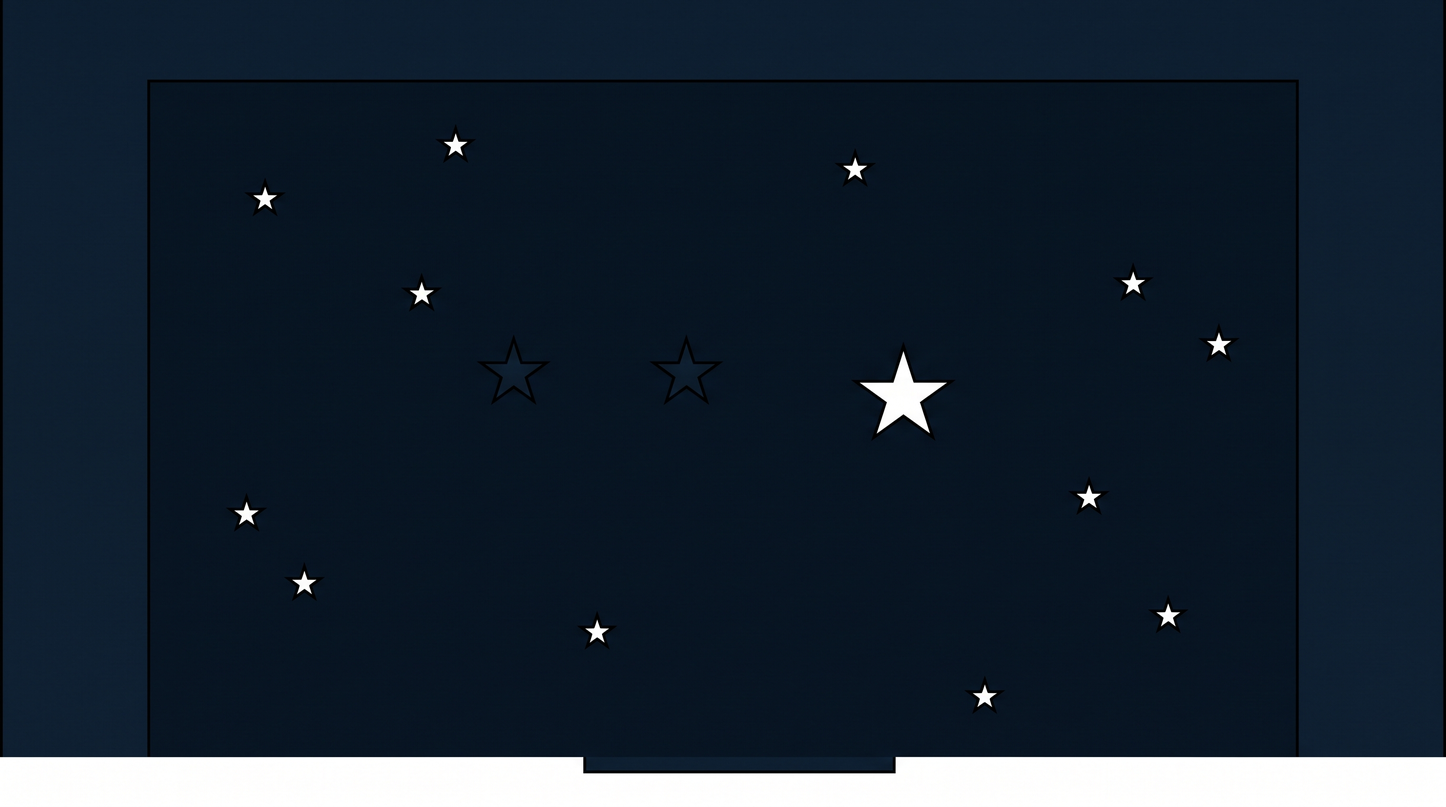
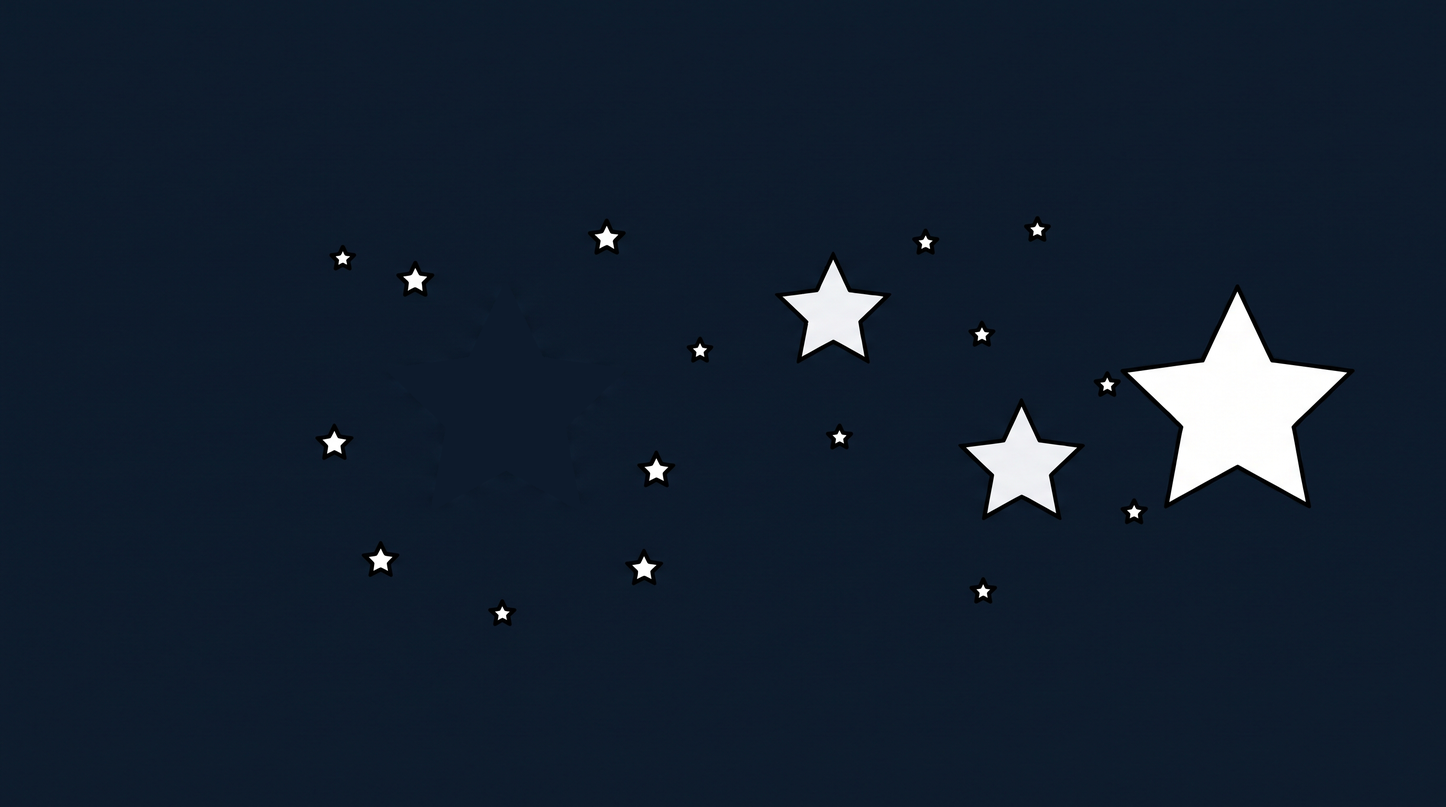
Video 2: alle 66 Motive stehen; Schlussmessung ueber den ganzen Satz
M34 sitzt im Nachlauf: die Schubladenfront ist eine ununterbrochene
Holzplatte mit dem Knopf darauf, kein Innenraum und kein Blatt sichtbar,
die Hand flach darueber. Der geschlossene Zustand als Bauform statt als
Attribut — derselbe Griff wie bei M15.

Die neun abgeleiteten Zustaende liegen jetzt unter ihren kanonischen
Namen; die gescheiterten Textfassungen von M05, M11 und M64 aus Stapel 1
sind damit ersetzt. 66 von 66 Bildern vorhanden.

schlussmessung.py prueft, was config.md angekuendigt hat: die
Serientoene gelten ab ihrer Einfuehrung, und was vorher entstand, wird
am Ende gemessen statt blind neu gemacht. Ergebnis: von 66 Bildern
fallen VIER aus ihrer Gruppe, und alle vier sind vor der Regel
entstanden, die fuer sie gilt — M15 und M22 (Messing, vor MESSINGTON),
M37 und M38 (Dunkelgrund und Sternfarbe, vor DUNKELGRUND und
STERNFELD). Sie laufen nach.

Zwei der fuenf gemeldeten Ausreisser waren Messfehler von mir und sind
in der Messung behoben:
- M41 galt als Dunkelgrund-Ausreisser, weil sein Okular-Steckbrief
  ausdruecklich Neutralgrau ausserhalb des Kreises verlangt und diese
  Flaeche groesser ist als das Nachtblau darin.
- M37 kam auf 81 % Farbanteil, weil "alles Helle" gemessen wurde und ein
  oranges Sonnensegel ueber der blaugruenen Erdkante das halbe Bild
  fuellt. Jetzt werden nur Flecken unter 3000 px gezaehlt — ein Stern
  ist klein, ein Satellit ist es nicht.

Geschlossen sind: Papierton (13 Motive, Spanne 220-250 / 210-250 /
[…]

diff --git a/produktion/video-02/schlussmessung.py b/produktion/video-02/schlussmessung.py
@@ -1,0 +1,155 @@
+#!/usr/bin/env python3
+"""Schlussmessung ueber alle 66 Bilder von Video 2.
+
+In config.md steht: die Serientoene gelten ab ihrer Einfuehrung, und
+bereits erzeugte Bilder werden nicht blind neu gemacht, sondern am Ende
+gemessen. Das ist diese Messung. Sie prueft je Gruppe, ob die Spanne
+geschlossen ist, und nennt die Ausreisser.
+
+Aufruf:  python3 schlussmessung.py
+"""
+from __future__ import annotations
+
+import collections
+import importlib.util
+import pathlib
+
+import numpy as np
+from PIL import Image
+
+HIER = pathlib.Path(__file__).resolve().parent
+BILDER = HIER / "bilder"
+
+
+def _lade(name: str, pfad: pathlib.Path):
+    spec = importlib.util.spec_from_file_location(name, pfad)
+    mod = importlib.util.module_from_spec(spec)
+    spec.loader.exec_module(mod)
+    return mod
+
+
+b = _lade("bildplan2", HIER / "bildplan2.py")
+sp = _lade("szenenplan", HIER / "szenenplan.py")
+
+
+def klein(mid: str, breite: int = 700) -> np.ndarray:
+    im = Image.open(BILDER / f"{mid}.png").convert("RGB")
+    return np.asarray(im.resize((breite, int(breite * im.height / im.width)))
+                      ).astype(int)
+
+
+def haeufigste(a: np.ndarray, maske: np.ndarray) -> tuple | None:
+    px = a[maske]
+    if len(px) < 300:
+        return None
+    zaehler = collections.Counter(map(tuple, px // 10 * 10))
+    (farbe, _), = zaehler.most_common(1)
+    return tuple(int(x) for x in farbe)
+
+
+def gruppe(titel: str, motive, maske, grenze: int) -> list[str]:
+    """Misst eine Gruppe und meldet, welche Motive aus der Spanne fallen."""
+    werte = {}
+    for mid in sorted(motive):
+        a = klein(mid)
+        farbe = haeufigste(a, maske(a))
+        if farbe is not None:
+            werte[mid] = farbe
+    print(f"=== {titel}  ({len(werte)} von {len(motive)} messbar)")
+    if len(werte) < 2:
+        print("    zu wenige Messwerte\n")
+        return []
+    w = np.array(list(werte.values()))
+    mitte = np.median(w, axis=0)
+    ausreisser = []
+    for mid, farbe in werte.items():
+        abstand = int(np.abs(np.array(farbe) - mitte).max())
+        marke = "  <-- Ausreisser" if abstand > grenze else ""
+        if marke:
+            ausreisser.append(f"{mid} ({abstand})")
+        print(f"    {mid}: {farbe}  Abstand {abstand:>3}{marke}")
+    print(f"    Median {tuple(int(x) for x in mitte)} · "
+          f"Spanne R {w[:,0].min()}-{w[:,0].max()} "
+          f"G {w[:,1].min()}-{w[:,1].max()} "
+          f"B {w[:,2].min()}-{w[:,2].max()}")
+    print()
+    return ausreisser
+
+
+def main() -> None:
+    offen: dict[str, list[str]] = {}
+    # M41 gehoert nicht in diese Gruppe, obwohl es ein Weltraummotiv ist:
+    # sein Okular-Steckbrief verlangt AUSDRUECKLICH flaches dunkles
+    # Neutralgrau ausserhalb des Kreises, und diese Flaeche ist groesser
+    # als das Nachtblau darin. Die haeufigste dunkle Farbe ist dort also
+    # das gewollte Grau. Das ist ein Messfehler, kein Bildfehler.
+    offen["Dunkelgrund"] = gruppe(
+        "DUNKELGRUND — Nachthimmel und Weltraum",
+        b.DUNKELGRUND_MOTIVE - {"M41"},
+        lambda a: a.max(axis=2) < 75, grenze=22)
+    offen["Papier"] = gruppe(
+        "PAPIERTON — Blatt, Seite, Platte",
+        b.PAPIER_MOTIVE,
+        lambda a: (a.min(axis=2) > 180) & (a.max(axis=2) - a.min(axis=2) < 45),
+        grenze=22)
+    offen["Messing"] = gruppe(
+        "MESSINGTON — Instrumente",
+        b.MESSING_MOTIVE,
+        lambda a: ((a[..., 0] > 140) & (a[..., 0] - a[..., 2] > 75)
+                   & (a[..., 1] - a[..., 2] > 40) & (a[..., 0] - a[..., 1] < 95)),
+        grenze=35)
+    offen["Leuchttisch"] = gruppe(
+        "LEUCHTTISCH — Durchlicht",
+        {m for m, d in sp.M.items() if d["licht"].startswith("Durchlicht:")},
+        lambda a: a.mean(axis=2) > np.percentile(a.mean(axis=2), 99.0),
+        grenze=22)
+    offen["Wiederkehrende Figur"] = gruppe(
+        "DER DAENE — Hautton",
+        {"M20", "M23", "M26"},
+        lambda a: ((a[..., 0] > 195) & (a[..., 0] - a[..., 2] > 52)
+                   & (a[..., 0] - a[..., 2] < 115) & (a[..., 1] > a[..., 2])
+                   & (a[..., 1] < a[..., 0] - 18) & (a[..., 2] > 85)),
+        grenze=30)
+
+    # Gemessen werden STERNE, nicht alles Helle. In M37 fuellt ein oranges
+    # Sonnensegel ueber der blaugruenen Erdkante das halbe Bild — als
+    # "helle Flaeche" gezaehlt kam das Motiv auf 81 % Farbanteil, obwohl
+    # seine Sterne weisse Punkte sind. Darum nur kleine helle Flecken:
+    # ein Stern ist klein, ein Satellit und eine Galaxie sind es nicht.
+    from scipy import ndimage as _nd
+    print("=== STERNFELDER — Anteil farbiger Sternpunkte "
+          "(nur Flecken unter 3000 px)")
+    for mid in sorted(b.STERNFELD_MOTIVE):
+        a = np.asarray(Image.open(BILDER / f"{mid}.png").convert("RGB")
+                       ).astype(int)
+        hell = a.max(axis=2) > 120
+        lab, n = _nd.label(hell)
+        gross = np.zeros(n + 1, bool)
+        for j, flaeche in enumerate(_nd.sum(hell, lab, range(1, n + 1)), 1):
+            gross[j] = flaeche >= 3000
+        hell &= ~gross[lab]
+        px = a[hell]
+        if len(px) < 50:
+            print(f"    {mid}: keine Sternpunkte messbar")
+            continue
+        mx, mn = px.max(axis=1), px.min(axis=1)
+        sat = np.where(mx > 0, (mx - mn) / np.maximum(mx, 1), 0)
+        anteil = float((sat > 0.25).mean()) * 100
+        eigen = mid in {"M58", "M67"}   # Szene gibt eigene Farben vor
+        marke = "  (Szenenfarbe)" if eigen else (
+            "  <-- Ausreisser" if anteil > 15 else "")
+        if marke.endswith("Ausreisser"):
+            offen.setdefault("Sternfarbe", []).append(f"{mid} ({anteil:.0f} %)")
+        print(f"    {mid}: {anteil:5.1f} % farbig{marke}")
+    print()
+
+    print("=== BILANZ")
+    rest = {k: v for k, v in offen.items() if v}
+    if not rest:
+        print("    Keine Ausreisser. Alle gemessenen Gruppen sind geschlossen.")
+    for k, v in rest.items():
+        print(f"    {k}: {', '.join(v)}")
+
+
+if __name__ == "__main__":
+    main()
